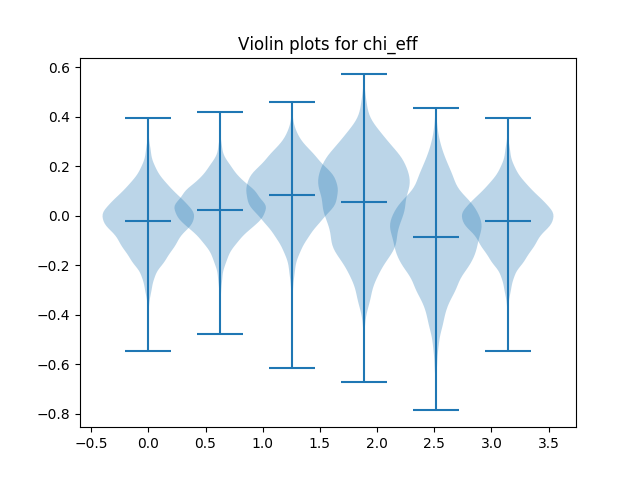
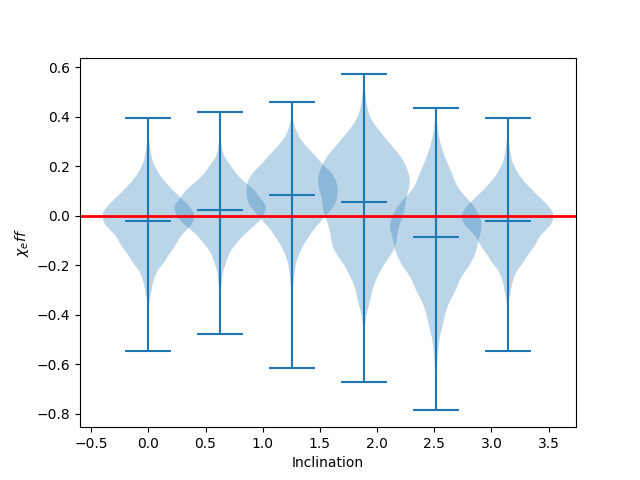
Updated violins, formatting and injected line

diff --git a/Inference/violins.py b/Inference/violins.py
@@ -224,7 +224,14 @@ def violinMe(parameter,pref):
       print "   ---%s completed" % thisFolder
       out.append(posterior)
    plt.figure()
-   plt.title("Violin plots for %s" % parameter)
+   plt.xlabel("Inclination")
+   plt.ylabel("%s" % parameter)
+   if parameter=="chi_p":
+      plt.ylabel(r"$\chi_p$")
+      plt.axhline(y=0.9,linewidth=2,color='r')
+   if parameter=="chi_eff":
+      plt.ylabel(r"$\chi_eff$")
+      plt.axhline(y=0.,linewidth=2,color='r')
    plt.violinplot(out,xaxis,showmeans=True,widths=0.8)
    plt.savefig("figures/%sviolins_%s.png" % (pref, parameter))
    print "--Figure saved--"
